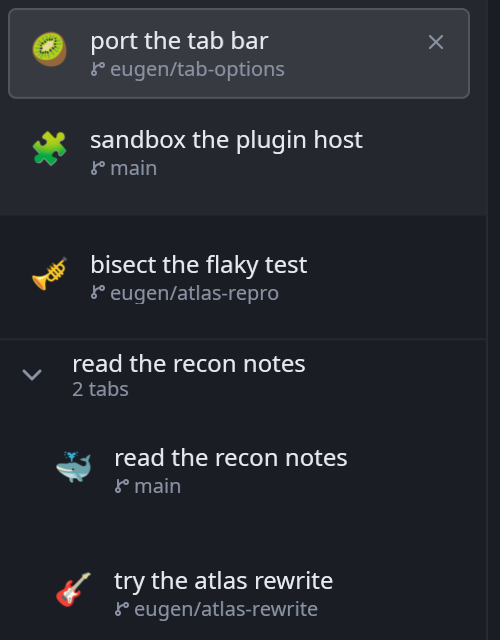
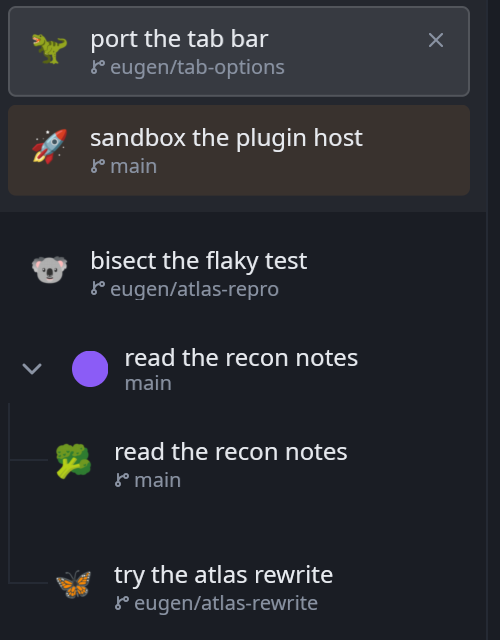
fix(marks): mix the key so tabs in one directory stop sharing marks (#6)
* fix(marks): mix the key so tabs in one directory stop sharing marks

A mark was the host's key, its high half folded onto its low, taken
modulo sixty-four. The key is an FNV-1a hash the host does not finish,
and tabs in one directory — the ordinary case, since every tab starts
where Crook was — differ by a byte a few rounds from the end, which
barely reaches the low six bits. The second and the tenth tab in a
directory wore the same mark in 318 directories of 1024, where chance is
sixteen, and a dozen tabs in one place showed fewer than ten marks.

The key now goes through MurmurHash3's finaliser first. Every tab's mark
changes once, on upgrading to this; after that each keeps its new one,
as before. The README's picture is rendered again to match.

* chore: picture for the pull request

* chore: take the picture back out

diff --git a/crates/emoji/src/marks_tests.rs b/crates/emoji/src/marks_tests.rs
@@ -20,26 +20,76 @@ fn the_same_tab_gets_the_same_mark_every_time() {
     let key = 0x1234_5678_9abc_def0;
 
     assert_eq!(mark_for(&row(key)), mark_for(&row(key)));
-    assert_eq!(
-        mark_for(&row(key)),
-        MARKS[(key ^ (key >> 32)) as usize % 64]
+    assert_eq!(mark_for(&row(key)), MARKS[(mixed(key) % 64) as usize]);
+}
+
+/// The key the host gives the `nth` tab working in `directory`, the way
+/// `crook`'s `plugins::wasm::keyed` makes it: FNV-1a over the plugin's id,
+/// a separator, the directory, and — past the first tab there — a separator
+/// and the tab's place among them.
+fn host_key(directory: &str, nth: u64) -> u64 {
+    const OFFSET: u64 = 0xcbf2_9ce4_8422_2325;
+    const PRIME: u64 = 0x0000_0100_0000_01b3;
+    let fold = |mut hash: u64, bytes: &[u8]| {
+        for &byte in bytes {
+            hash ^= u64::from(byte);
+            hash = hash.wrapping_mul(PRIME);
+        }
+        hash
+    };
+    let key = fold(
+        fold(fold(OFFSET, b"theguriev/emoji"), &[0]),
+        directory.as_bytes(),
     );
+    match nth {
+        0 => key,
+        nth => fold(fold(key, &[0]), &nth.to_le_bytes()),
+    }
 }
 
 #[test]
-fn neighbouring_keys_do_not_get_neighbouring_marks() {
-    // Not a property of this file — it is the host's hash that has it — but
-    // the one worth asserting from here, because a version of this that
-    // indexed by tab position instead would pass every other test in the file
-    // and give the whole panel five fruit in a row.
-    let marks: Vec<&str> = (0..8)
-        .map(|index| mark_for(&row(0xcbf2_9ce4_8422_2325u64.wrapping_mul(index + 1))))
-        .collect();
-    let mut unique = marks.clone();
-    unique.sort_unstable();
-    unique.dedup();
+fn two_tabs_in_one_directory_share_a_mark_about_as_often_as_chance() {
+    // Every tab starts where Crook was started, so tabs in one place are the
+    // ordinary case, and the key is all that tells them apart. The second and
+    // the tenth there wore the same mark in 318 directories of 1024; chance
+    // is sixteen.
+    let directories = 1024;
+    for (first, second) in [(1, 9), (2, 10), (1, 4)] {
+        let same = (0..directories)
+            .filter(|index| {
+                let directory = format!("/home/someone/Work/project-{index}");
+                mark_for(&row(host_key(&directory, first)))
+                    == mark_for(&row(host_key(&directory, second)))
+            })
+            .count();
+        assert!(
+            same <= 48,
+            "tabs {first} and {second} share a mark in {same} of {directories} directories"
+        );
+    }
+}
 
-    assert_eq!(unique.len(), marks.len(), "{marks:?}");
+#[test]
+fn a_dozen_tabs_in_one_directory_wear_about_as_many_marks_as_chance_gives() {
+    // Twelve picks from sixty-four have eleven different ones on average; the
+    // unmixed key gave fewer than ten.
+    let directories = 256;
+    let distinct: usize = (0..directories)
+        .map(|index| {
+            let directory = format!("/srv/checkouts/repo-{index}");
+            let mut marks: Vec<&str> = (0..12)
+                .map(|nth| mark_for(&row(host_key(&directory, nth))))
+                .collect();
+            marks.sort_unstable();
+            marks.dedup();
+            marks.len()
+        })
+        .sum();
+    let average = distinct as f64 / f64::from(directories);
+    assert!(
+        average >= 10.5,
+        "a dozen tabs wear {average:.2} different marks"
+    );
 }
 
 #[test]

diff --git a/crates/emoji/src/marks.rs b/crates/emoji/src/marks.rs
@@ -107,13 +107,24 @@ pub const MARKS: [&str; 64] = [
 /// choice is a remainder, and a person who liked the octopus their `crook`
 /// checkout got keeps it.
 ///
-/// The high bits are folded in first. The host's key is a hash and its low
-/// bits are as good as its high ones today, but a remainder that reads only
-/// the bottom six is a plugin that would start repeating itself if that ever
-/// stopped being true — and folding is two instructions.
+/// The key is mixed before the remainder is taken. It is an FNV-1a hash the
+/// host does not finish, and a byte of difference — the second tab in a
+/// directory rather than the tenth — barely reaches its low bits: taken
+/// straight, those two tabs wore the same mark in almost a third of
+/// directories where one in sixty-four is chance, and a dozen tabs in one
+/// place showed fewer than ten different marks. The mix is MurmurHash3's
+/// finaliser, which spreads every bit of the key over all of them.
 pub fn mark_for(facts: &TabFacts) -> &'static str {
-    let key = facts.key ^ (facts.key >> 32);
-    MARKS[(key % MARKS.len() as u64) as usize]
+    MARKS[(mixed(facts.key) % MARKS.len() as u64) as usize]
+}
+
+/// MurmurHash3's 64-bit finaliser, `fmix64`.
+fn mixed(mut key: u64) -> u64 {
+    key ^= key >> 33;
+    key = key.wrapping_mul(0xff51_afd7_ed55_8ccd);
+    key ^= key >> 33;
+    key = key.wrapping_mul(0xc4ce_b9fe_1a85_ec53);
+    key ^ (key >> 33)
 }
 
 #[cfg(test)]

diff --git a/README.md b/README.md
@@ -3,7 +3,7 @@
 An emoji at the head of every [Crook](https://github.com/theguriev/crook) tab, in place of the
 status dot — as a plugin the terminal does not carry.
 
-<img src="assets/marks.png" alt="Crook's tab panel: a kiwi, a puzzle piece, a trumpet, a whale and a guitar where the status dots were" width="320">
+<img src="assets/marks.png" alt="Crook's tab panel: a T. rex, a rocket, a koala, broccoli and a butterfly where the status dots were" width="320">
 
 The same tab gets the same emoji every time. Not random per frame and not random per launch:
 the mark is a remainder over a number the host gives the plugin for each row, and that number
